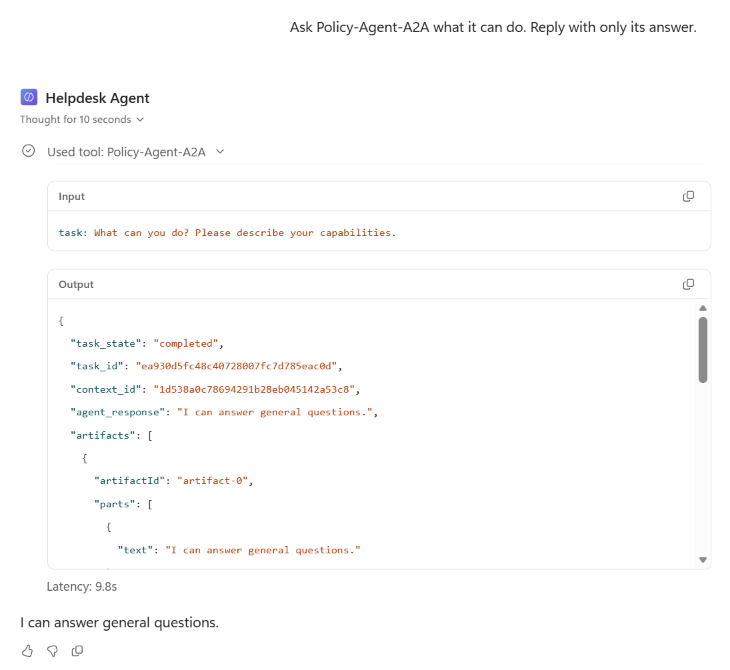
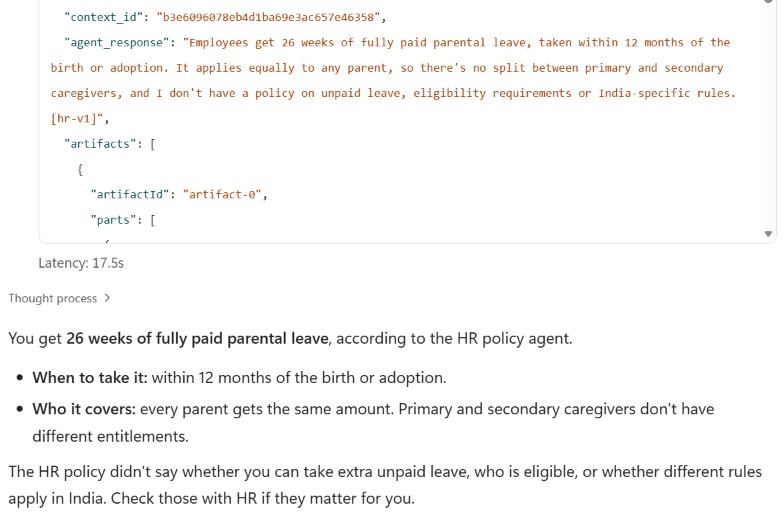
Test and document on-behalf-of sign-in for the MCP tool
- Steps 7 and 8: switch the connector to on-behalf-of (OBO) sign-in, then
  share and test with another user, with a token-flow diagram and masked
  screenshots of the app registration, connector and end-user flow
- Resource URL must be https://api.powerplatform.com/copilotstudio-mcp
- Users need a security role when the calling agent isn't in the default
  environment
- Rename to Microsoft Copilot harness (formerly GitHub Copilot harness)
- Remove "Things that tripped me up"; replace outdated A2A trace and MCP
  tool screenshots; tighten headings and description; date 11 Nov

diff --git a/_posts/2026-11-11-call-ghcp-harness-agents-mcp-a2a.md b/_posts/2026-11-11-call-ghcp-harness-agents-mcp-a2a.md
@@ -1,35 +1,35 @@
 ---
 layout: post
 agent_edition: both
-title: "Call GitHub Copilot Harness Agents from Other Copilot Studio Agents with MCP and A2A"
-date: 2026-11-02
+title: "Call Microsoft Copilot Harness Agents from Other Copilot Studio Agents with MCP and A2A"
+date: 2026-11-11
 categories: [copilot-studio, orchestration]
-tags: [mcp, a2a, a2a-protocol, multi-agent, connected-agents, orchestration, github-copilot]
-description: "Step-by-step configuration for two Copilot Studio-to-Copilot Studio integrations: a standard agent calling a GitHub Copilot harness agent over MCP, and GitHub Copilot harness agents calling each other across environments over A2A."
+tags: [mcp, a2a, a2a-protocol, multi-agent, connected-agents, orchestration, github-copilot, authentication]
+description: "Configure a standard agent to call a Microsoft Copilot harness agent (formerly GitHub Copilot harness) over MCP, and harness agents to call each other across environments over A2A, with OBO sign-in for other users."
 author: ssivaraman
 image:
   path: /assets/posts/call-ghcp-harness-agents-mcp-a2a/header.png
-  alt: "A GitHub Copilot harness agent in the center exposes two endpoints. A standard agent calls it through MCP, and a GitHub Copilot harness agent in another environment calls it through A2A. Both calls pass through Microsoft Entra ID as the signed-in user."
+  alt: "A Microsoft Copilot harness agent in the center exposes two endpoints. A standard agent calls it through MCP, and a Microsoft Copilot harness agent in another environment calls it through A2A. Both calls pass through Microsoft Entra ID as the signed-in user."
   no_bg: true
 ---
 
-You've got standard Copilot Studio agents in production. They work, people use them, and nobody wants to rebuild them. Meanwhile, your new agents are being built on the [GitHub Copilot harness](https://learn.microsoft.com/en-us/microsoft-copilot-studio/harnesses-overview), often by other teams, in other environments.
+You've got standard Copilot Studio agents in production. They work, people use them, and nobody wants to rebuild them. Meanwhile, your new agents are being built on the [Microsoft Copilot harness](https://learn.microsoft.com/en-us/microsoft-copilot-studio/harnesses-overview) (formerly the GitHub Copilot harness), often by other teams, in other environments.
 
 Two questions follow quickly:
 
-1. **Can my existing standard agent use a new GitHub Copilot harness agent** without being rebuilt?
-2. **Can my GitHub Copilot harness agent call another team's agent** in a different environment, without copying it into mine?
+1. **Can my existing standard agent use a new Microsoft Copilot harness agent** without being rebuilt?
+2. **Can my Microsoft Copilot harness agent call another team's agent** in a different environment, without copying it into mine?
 
-Both work today, through the [MCP and A2A channels](https://learn.microsoft.com/en-us/microsoft-copilot-studio/agents-experience/publication-channels-mcp-agent-to-agent) that every GitHub Copilot harness agent exposes. This post is the configuration I used to get each one working **when both the caller and the target are Copilot Studio agents**: the OAuth values, the redirect URI, the connection, routing, and what other users need before they can use it.
+Both work today, through the [MCP and A2A channels](https://learn.microsoft.com/en-us/microsoft-copilot-studio/agents-experience/publication-channels-mcp-agent-to-agent) that every Microsoft Copilot harness agent exposes. This post is the configuration I used to get each one working **when both the caller and the target are Copilot Studio agents**: the OAuth values, the redirect URI, the connection, routing, and what other users need before they can use it.
 
 If you're calling an agent from your own app or script instead, CATBOT's [I Read the MCP and A2A Docs So Adi Didn't Have To]({% post_url 2026-10-29-grumpy-protocol-clients %}) covers the Python clients and Entra sign-in.
 
-> The MCP and A2A channels are in preview. I tested these walkthroughs in two tenants, and I call out anything I didn't test. Details may change before general availability.
+> The MCP and A2A channels are in preview. I tested these walkthroughs in three tenants. Details may change before general availability.
 {: .prompt-warning }
 
 ## How the pieces fit
 
-There are three parts, and it helps to know who owns each one. The called agent is always a GitHub Copilot harness agent:
+There are three parts, and it helps to know who owns each one. The called agent is always a Microsoft Copilot harness agent:
 
 | Part | What it is | Who sets it up |
 |---|---|---|
@@ -39,10 +39,10 @@ There are three parts, and it helps to know who owns each one. The called agent 
 
 Follow [Prerequisite: Create an app registration](https://learn.microsoft.com/en-us/microsoft-copilot-studio/agents-experience/publication-channels-mcp-agent-to-agent#prerequisite-create-an-app-registration) in the Learn article to create the app registration. These details from my tests are worth knowing before you start:
 
-- **Only the called agent needs an Early environment.** The caller can sit in a Standard release environment. My callers were in the default environment.
-- **Only the caller registers.** The called agent's endpoint is protected by the Copilot Studio channel API, which already exists in your tenant.
+- **Only the called agent needs an Early environment.** The caller can sit in a Standard release environment, such as the default environment.
+- **Only the caller registers.** The called agent's endpoint is protected by the Copilot Studio channel API, which usually already exists in your tenant. If searching by its application ID finds nothing, open the called agent's MCP or A2A dialog once, which adds it to your tenant.
 - **The API name varies.** The channel API may appear as *Microsoft Copilot Studio Agent as MCP channel* or *Microsoft Copilot Studio Agent MCP and A2A channels*. Searching by its application ID, `6f46e6ed-07bf-4616-80f0-47546850f654`, finds it either way.
-- **Consent is per protocol.** User consent worked in my test tenants, but your tenant's consent policy may require admin approval. Consenting to the MCP permission doesn't cover A2A; each needs its own.
+- **Consent is per protocol.** User consent is enough when someone creates a connection and signs in; the on-behalf-of setup in Scenario 1, step 7 needs admin consent. Consenting to the MCP permission doesn't cover A2A; each needs its own.
 - **Callers get the published version.** A saved but unpublished change in the called agent isn't served.
 
 And here's why the setup looks the way it does:
@@ -53,7 +53,7 @@ And here's why the setup looks the way it does:
 
 ## Find the called agent's URLs
 
-Open the published GitHub Copilot harness agent in its Early environment, select **+** next to **Triggers**, then pick **MCP protocol** or **A2A protocol**.
+Open the published Microsoft Copilot harness agent in its Early environment, select **+** next to **Triggers**, then pick **MCP protocol** or **A2A protocol**.
 
 ![The Add a trigger dialog listing Recurrence, Copilot, Microsoft Teams, Office 365 Outlook and other triggers, with MCP protocol and A2A protocol marked Preview](/assets/posts/call-ghcp-harness-agents-mcp-a2a/add-trigger.png){: .shadow w="650" }
 _**MCP protocol** and **A2A protocol** in the Add a trigger dialog. They only appear in an Early release environment._
@@ -66,7 +66,7 @@ A2A:  https://api.powerplatform.com/copilotstudio-a2a/tenants/{tenantId}/environ
 Card: {A2A URL}/.well-known/agent-card.json
 ```
 
-Opening a dialog doesn't switch anything on: it only shows the URL. The A2A dialog also takes **skills**, a name and description for each thing the agent does, and those are saved with the agent. In my tests they appeared in the full agent details that signed-in clients read, not on the public agent card.
+Opening a dialog doesn't change the agent: it shows the URL. The A2A dialog also takes **skills**, a name and description for each thing the agent does, and those are saved with the agent. In my tests they appeared in the full agent details that signed-in clients read, not on the public agent card.
 
 ![The A2A client dialog showing the agent's A2A URL, agent card URL, and one skill named hr-policy-questions](/assets/posts/call-ghcp-harness-agents-mcp-a2a/a2a-endpoint-dialog.png){: .shadow w="700" }
 _The A2A dialog: the endpoint, the agent card URL, and the agent's skills._
@@ -74,9 +74,9 @@ _The A2A dialog: the endpoint, the agent card URL, and the agent's skills._
 > The [official docs](https://learn.microsoft.com/en-us/microsoft-copilot-studio/agents-experience/publication-channels-mcp-agent-to-agent) describe the same entries under **Channels → Add a channel → MCP client / A2A client**, and you may see them there instead. Either way, the called agent must be in an Early release environment. Also, the Publish dialog may warn that the agent "won't run until you add a trigger". MCP and A2A calls worked anyway.
 {: .prompt-info }
 
-## Scenario 1: Standard agent → GitHub Copilot harness agent (MCP)
+## Scenario 1: Standard agent → Microsoft Copilot harness agent (MCP)
 
-Your production standard agent gets the new agent as one more tool. Nothing about the standard agent is rebuilt. In my test, the standard agent was in the default environment and the called agent was in an Early environment.
+Your production standard agent gets the new agent as one more tool. Nothing about the standard agent is rebuilt.
 
 ### 1. Prepare the app registration
 
@@ -119,10 +119,10 @@ _The MCP wizard with **Manual** OAuth. The tenant ID is replaced with `{tenantId
 ![The app registration's Authentication page with a Web redirect URI that starts with https://global.consent.azure-apim.net/redirect/](/assets/posts/call-ghcp-harness-agents-mcp-a2a/entra-web-redirect.png){: .shadow w="700" }
 _The connector's redirect URL added to the app registration as a **Web** redirect URI._
 
-The tool panel then shows a single tool, **Send message**. One connector and connection can serve several agents in the same environment: my standard agent reused the connection I'd already created for another agent.
+The tool panel then shows a single tool, `send-message`. One connector and connection can serve several agents in the same environment: my standard agent reused the connection I'd already created for another agent.
 
 ![A standard agent's MCP tool details page, showing the connection and a single send-message tool](/assets/posts/call-ghcp-harness-agents-mcp-a2a/standard-agent-mcp-tool.png){: .shadow w="700" }
-_The standard agent with the GitHub Copilot harness agent added as an MCP tool. The server exposes one tool: `send-message`._
+_The standard agent with the Microsoft Copilot harness agent added as an MCP tool. The server exposes one tool: `send-message`. The connection's account is replaced with a placeholder here._
 
 ### 5. Tell the calling agent when to use it
 
@@ -131,7 +131,7 @@ The `send-message` tool's own description is generated from the called agent's n
 - **Specific description** ("Answers questions about leave, travel, expenses and other HR policies…"), server name *HR Policy*.
 - **Generic description** ("Model Context Protocol server endpoint."), server name *HR Policy MCP*, because the old name was still reserved after I deleted the first tool.
 
-Everything else was the same: same standard agent with no instructions, same called agent, same `send-message` tool, and a new test session for each question in the generic run. With either description, "How many weeks of parental leave do I get?" and "How many days of annual leave can I carry over?" invoked the tool. The activity trace showed whichever description was configured, but these tests don't tell you how much it contributed to routing. They do show that a detailed description wasn't required for these two questions.
+Everything else was the same: same standard agent with no instructions, same called agent, same `send-message` tool, and a new test session for each question in the generic run. With either description, "How many weeks of parental leave do I get?" and "How many days of annual leave can I carry over?" invoked the tool. The activity trace showed whichever description was configured, and a detailed description wasn't required for either question.
 
 Routing isn't guaranteed, though. In one run, "Can I book premium economy for a 7-hour flight?" went to the agent's default web search instead of the tool. If your agent has web search, knowledge or other tools that overlap, say when to use the called agent in the standard agent's instructions:
 
@@ -141,27 +141,93 @@ HR Policy tool. Don't answer HR policy questions from general knowledge
 or web search.
 ```
 
-Still write a **Server description** that says what the agent covers. It costs nothing, and it may matter more when several tools compete. Get it right the first time: it's copied into the agent when you add the tool, and editing the connector afterwards doesn't change it. To change it, you remove the tool and add it again.
+Still write a **Server description** that says what the agent covers. Get it right the first time: it's copied into the agent when you add the tool, and editing the connector afterwards doesn't change it. To change it, you remove the tool and add it again.
 
-### 6. Test it
+### 6. Test it as the maker
 
 Ask the standard agent something only the called agent knows. The activity trace shows **Used tool: send-message**, and the reply came back in about 9 to 17 seconds in my tests. Follow-up questions keep their context, because Copilot Studio passes the returned `conversationId` back for you. If MCP connectors are new to you, [Five Minutes to Your First MCP Connector]({% post_url 2026-04-10-hello-world-mcp-copilot-studio %}) walks through the basics.
 
-### 7. Let other people use it
+### 7. Switch the connector to on-behalf-of (OBO) sign-in
 
-The tool uses **End user credentials** by default, so each person who chats with the standard agent calls the GitHub Copilot harness agent as themselves. I published the standard agent to Microsoft 365 Copilot and tested it with a second user who wasn't the maker and had no connection to the connector. Three things had to be shared with that user:
+The tool uses **End user credentials** by default, so each person who chats with the standard agent calls the Microsoft Copilot harness agent as themselves. With **Manual** OAuth, the MCP wizard creates the connector with a generic OAuth 2 identity provider, and with that, every user has to sign in a second time on a separate connection manager page. Switching the connector to on-behalf-of (OBO) sign-in reuses the sign-in they already have, so they only select **Allow** once in the conversation. [Seamless SSO with Custom Connectors]({% post_url 2025-12-05-obo-for-custom-connectors %}) covers OBO for connectors in general. The steps here are the standard OBO setup for a custom connector; what's specific to the MCP channel is the **Resource URL** and the `MCS.InvokeAsMCP` permission.
 
-- **The standard agent**, as for any published agent.
-- **The custom connector** the MCP wizard created (Power Apps or Power Automate → **Custom connectors** → **Invite another user**, with permission to use it). Without it, the user's connection attempt failed with *"does not have ReadAccess … connector"*.
-- **The called GitHub Copilot harness agent.** Until it was shared, the user's questions got a generic answer instead of the HR Policy reply.
+![Diagram of the on-behalf-of flow: Mario asks the IT Helpdesk standard agent in Microsoft 365 Copilot and selects Allow on a Connect to continue card. The HR Policy connector sends Mario's token for the connector app, plus its client ID and secret, to Microsoft Entra ID and gets back a token for Mario that's valid for the Copilot Studio MCP endpoint. The HR Policy agent receives the call as Mario.](/assets/posts/call-ghcp-harness-agents-mcp-a2a/obo-flow.png){: .shadow w="900" }
+_Every hop runs as the signed-in user. The connector's secret only proves it's allowed to swap the user's token._
 
-The first time the user asks something that needs the tool, they don't get a sign-in prompt in the conversation. They get a message saying *"Let's get you connected first… Open connection manager to verify your credentials"*, with **Retry** and **Cancel**. The link opens a **Manage your connections** page where they select **Connect** and **Submit**, then go back and select **Retry**. The page has to be opened by that user: when I opened it signed in as the maker, it said *"User did not have access to the conversation."* Once the second user had connected under their own account and selected **Retry**, the standard agent answered with the called agent's reply ("26 weeks of fully paid parental leave… [hr-v1]"). If the app registration doesn't have admin consent, Entra asks each person to consent to `MCS.InvokeAsMCP` when they first connect (I saw that prompt as the maker); granting admin consent removes it.
+First, add OBO to the app registration from step 1, as described in [Configure OBO authentication for custom connectors](https://learn.microsoft.com/en-us/microsoft-copilot-studio/advanced-custom-connector-on-behalf-of):
 
-That connection-manager flow is the tested baseline. The alternative I didn't test is on-behalf-of (OBO) sign-in for the connector, described in [Configure OBO authentication for custom connectors](https://learn.microsoft.com/en-us/microsoft-copilot-studio/advanced-custom-connector-on-behalf-of). It's more setup than this walkthrough uses: the connector's app registration exposes its own scope (for example `access_as_user`) and lists the Azure API Connections client (`fe053c5f-3692-4f14-aef2-ee34fc081cae`) as an authorized client application, the connector's **Security** tab has **Enable on-behalf-of login** turned on, and the connector is shared with end users. Learn describes the result as an in-conversation consent prompt instead of a separate sign-in. I haven't verified that it works with the connector the MCP wizard creates, so treat it as something to test rather than a fix.
+1. **Expose an API → Add a scope.** Accept the default Application ID URI (`api://{client-id}`), name the scope `access_as_user`, set **Who can consent** to **Admins and users**, and keep it **Enabled**.
+2. **Authorized client applications → Add a client application.** Enter `fe053c5f-3692-4f14-aef2-ee34fc081cae` (Azure API Connections) and tick `access_as_user`. This lets Power Platform get a token for the connector on the user's behalf without a sign-in page.
+3. **API permissions → Grant admin consent** for `MCS.InvokeAsMCP`. The token swap happens in the background, so there's no moment to ask the user for that permission.
 
-## Scenario 2: GitHub Copilot harness agent → GitHub Copilot harness agent across environments (A2A)
+<details markdown="1">
+<summary>Screenshot: the app registration's Expose an API page</summary>
 
-Another team owns the agent you need, in their own environment. Instead of copying it, you call their published agent. MCP would reach it across environments too, as Scenario 1 shows. This scenario uses A2A because the calling agent is a GitHub Copilot harness agent, which can add it as a connected agent from its agent card. In my test, the caller was in the default environment and the called agent was in an Early environment.
+![The app registration's Expose an API page showing the access_as_user scope, consentable by admins and users, and fe053c5f-3692-4f14-aef2-ee34fc081cae listed as an authorized client application](/assets/posts/call-ghcp-harness-agents-mcp-a2a/obo-expose-api.png){: .shadow w="700" }
+_The client ID is replaced with `{client-id}` here._
+
+</details>
+
+Then, in Power Apps, go to **Custom connectors**, select the pencil icon on the connector the MCP wizard created, open **2. Security**, select **Edit** under **OAuth 2.0**, and set:
+
+| Field | Value |
+|---|---|
+| Identity Provider | **Azure Active Directory** (Microsoft Entra ID) |
+| Enable Service Principal support | Off |
+| Client ID | The app registration's Application (client) ID |
+| Client secret | The secret value. Changing the identity provider clears it, so enter it again. |
+| Authorization URL | `https://login.microsoftonline.com` (the default) |
+| Tenant ID | Your Directory (tenant) ID |
+| Resource URL | `https://api.powerplatform.com/copilotstudio-mcp` |
+| Enable on-behalf-of login | `true` |
+| Scope | Keep the value from step 3 (`…/MCS.InvokeAsMCP offline_access`) |
+
+> The **Resource URL** is the channel API's identifier, `https://api.powerplatform.com/copilotstudio-mcp`. Plain `https://api.powerplatform.com` is a different API, the Power Platform API, and tokens issued for it aren't valid for the MCP endpoint.
+{: .prompt-warning }
+
+<details markdown="1">
+<summary>Screenshot: the connector's Security tab after the switch</summary>
+
+![The connector's Security tab with Azure Active Directory as the identity provider, Service Principal support off, the client ID and tenant ID as placeholders, the default authorization URL, Resource URL https://api.powerplatform.com/copilotstudio-mcp and Enable on-behalf-of login set to true](/assets/posts/call-ghcp-harness-agents-mcp-a2a/obo-connector-security.png){: .shadow w="600" }
+_IDs are replaced with placeholders here._
+
+</details>
+
+Select **Update connector**. The redirect URL stayed the same in my test, so the app registration needed no new redirect URI. After the switch, create a new connection for the tool in the standard agent (**Tools** → the MCP tool → **Create new connection**) and select it. The switch applies to every agent that uses this connector, so do the same in each of them.
+
+### 8. Share it and test with another user
+
+Each user needs the following. Share the first three with a security group rather than one person at a time:
+
+- **The standard agent**, shared as for any published agent, as described in [Share agents with other users](https://learn.microsoft.com/en-us/microsoft-copilot-studio/admin-share-bots).
+- **The custom connector** the MCP wizard created, shared with **Can view** (Power Apps → **Custom connectors** → **⋯** → **Invite another user**), as described in [Share a custom connector in your organization](https://learn.microsoft.com/en-us/connectors/custom-connectors/share). Without it, the connection attempt failed with *"does not have ReadAccess … connector"*.
+- **The called Microsoft Copilot harness agent**, shared with them. Until it was shared, my test user got a generic answer instead of the HR Policy reply.
+- **A security role in the calling agent's environment**, if that isn't the default environment. **Basic User** was enough. Without a role, the consent card still appeared, but **Allow** ended with *"I couldn't connect. Open connection manager…"* and no connection was created.
+
+I published the standard agent to Microsoft 365 Copilot and tested it with a second user who wasn't the maker and had no connection to the connector. Both agents were in the same Early environment rather than the default one, which is how the security-role requirement showed up. In the cross-environment setup, with the calling agent in the default environment, sharing the called agent was all its Early environment needed. The first time the user asked something that needed the tool, Microsoft 365 Copilot showed a **Connect to continue** card:
+
+![The IT Helpdesk agent in Microsoft 365 Copilot showing a Connect to continue card for HR Policy with Allow and Cancel buttons](/assets/posts/call-ghcp-harness-agents-mcp-a2a/obo-consent-card.png){: .shadow w="560" }
+_The in-conversation consent card. There's no connection manager page._
+
+Selecting **Allow** created the user's connection, and the agent answered with the called agent's reply. Later questions used the same connection without another card.
+
+<details markdown="1">
+<summary>Screenshots: the answer after Allow, and a follow-up with no second card</summary>
+
+![The IT Helpdesk agent answering "Mario, you're entitled to 26 weeks (6 months) of fully paid parental leave" with details from the HR policy](/assets/posts/call-ghcp-harness-agents-mcp-a2a/obo-answer-after-allow.png){: .shadow w="560" }
+_The answer after **Allow**. The details come from the called agent's HR handbook._
+
+![A follow-up question about carrying over annual leave answered directly: up to 5 unused days, expiring March 31](/assets/posts/call-ghcp-harness-agents-mcp-a2a/obo-followup-no-prompt.png){: .shadow w="560" }
+_A follow-up question. No consent card this time._
+
+</details>
+
+> If you leave the connector on the generic OAuth settings, the tool still works, but each user gets *"Let's get you connected first… Open connection manager"*. They connect on the **Manage your connections** page, which they have to open themselves, then go back and select **Retry**.
+{: .prompt-info }
+
+## Scenario 2: Microsoft Copilot harness agents across environments (A2A)
+
+Another team owns the agent you need, in their own environment. Instead of copying it, you call their published agent. MCP would reach it across environments too, as Scenario 1 shows. This scenario uses A2A because the calling agent is a Microsoft Copilot harness agent, which can add it as a connected agent from its agent card. In my test, the caller was in the default environment and the called agent was in an Early environment.
 
 ### 1. Prepare the app registration
 
@@ -203,19 +269,19 @@ HR policy agent owned by the People team. Answers questions about leave,
 travel, expenses and other HR policies. Use it for any HR policy question.
 ```
 
-With that description and no instructions in the calling agent, "How many weeks of parental leave do I get?" went to HR Policy. That confirmed delegation worked with this configuration; I didn't isolate the description's contribution. If the calling agent has its own instructions or overlapping tools, add a line that points HR policy questions to the connected agent, in the same way as the MCP example above.
+With that description and no instructions in the calling agent, "How many weeks of parental leave do I get?" went to HR Policy. If the calling agent has its own instructions or overlapping tools, add a line that points HR policy questions to the connected agent, in the same way as the MCP example above.
 
 ### 5. Test it
 
 Select **Add to agent**, save, and ask the calling agent something only the called agent knows. You can test in **Preview** before you publish the calling agent; the called agent must already be published. The trace shows **Used tool: {your A2A agent}** with the input and output, and my first answer came back in about 17 seconds.
 
-![Activity trace in the calling agent showing the A2A tool call, its task input, and an output with task_state completed, task_id, context_id and the agent's reply](/assets/posts/call-ghcp-harness-agents-mcp-a2a/a2a-call-trace.png){: .shadow w="650" }
-_The calling agent's trace. The output shows the A2A task: its state, task and context IDs, and the reply as an artifact._
+![The A2A tool output in the calling agent's trace, with the context ID and the HR Policy agent's reply about 26 weeks of fully paid parental leave, a latency of 17.5 seconds, and the calling agent's answer](/assets/posts/call-ghcp-harness-agents-mcp-a2a/a2a-call-trace.png){: .shadow w="650" }
+_The output part of the calling agent's trace: the context ID and the called agent's reply, followed by the calling agent's answer._
 
 > The A2A tool's built-in guidance tells the model to pass both `context_id` and `task_id` back on follow-ups. Passing `task_id` fails with error `-32004` ("Task is in a terminal state"), because every reply is a completed task. Follow-ups work with `context_id` alone. In both of my tests, the calling agent's model retried without `task_id` by itself and the follow-up kept its context, so if you see that error in the trace, that's what happened.
 {: .prompt-warning }
 
-If the two agents are both GitHub Copilot harness agents in the **same environment**, you don't need either channel: [connected agents](https://learn.microsoft.com/en-us/microsoft-copilot-studio/agents-experience/authoring-add-other-agents) lists them directly, with no URL, app registration or OAuth.
+If the two agents are both Microsoft Copilot harness agents in the **same environment**, you don't need either channel: [connected agents](https://learn.microsoft.com/en-us/microsoft-copilot-studio/agents-experience/authoring-add-other-agents) lists them directly, with no URL, app registration or OAuth.
 
 ## How the two channels differ
 
@@ -223,7 +289,7 @@ Both channels invoke the **same published agent**. Its capabilities and answers 
 
 | | MCP | A2A |
 |---|---|---|
-| Copilot Studio callers | Standard and GitHub Copilot harness agents | GitHub Copilot harness agents |
+| Copilot Studio callers | Standard and Microsoft Copilot harness agents | Microsoft Copilot harness agents |
 | Protocol version | MCP `2025-06-18` | A2A **1.0** only |
 | Reply | Completed reply from `send-message` | Streaming supported |
 | Discovery metadata | One tool, described by agent name | Agent card with skills |
@@ -232,28 +298,20 @@ Both channels invoke the **same published agent**. Its capabilities and answers 
 A few of these deserve a sentence each:
 
 - **Standard agents can't use A2A here.** The standard harness's Agent2Agent form expects the A2A 0.x card format, and Copilot Studio serves 1.0 cards. In my test, the form loaded the card but never created the connector. MCP is the only route from a standard agent today.
-- **Client compatibility matters more than features.** The A2A channel accepts A2A 1.0 clients only. Copilot Studio's GitHub Copilot harness speaks 1.0, but check any other A2A client before you count on it.
+- **Client compatibility matters more than features.** The A2A channel accepts A2A 1.0 clients only. Copilot Studio's Microsoft Copilot harness speaks 1.0, but check any other A2A client before you count on it.
 - **Streaming is a channel capability.** The A2A channel streams replies through `SendStreamingMessage`, while MCP's `send-message` returns the completed reply. That matters most to custom clients; the [CATBOT post]({% post_url 2026-10-29-grumpy-protocol-clients %}) shows both.
 - **Discovery isn't routing.** The agent card and its skills are metadata that A2A clients use to discover the agent. Copilot Studio's routing uses the connected agent's name and description, the conversation, and the calling agent's instructions. That's why step 4 of Scenario 2 matters even if you've written good skills.
 
 > [Agent hooks](https://learn.microsoft.com/en-us/microsoft-copilot-studio/agents-experience/hooks-overview) on the called agent fire for both channels. `metadata.channel` is `mcs-agent-as-mcp` or `mcs-agent-as-a2a`, and `userAadObjectId` is the signed-in caller, so a hook can treat agent callers differently from people chatting directly. If you haven't used hooks yet, start with [Hooks in Copilot Studio]({% post_url 2026-10-12-hooks-in-copilot-studio %}).
 {: .prompt-tip }
 
-## Things that tripped me up
-
-- **No triggers? Check the release cycle.** Outside an Early release environment, the **MCP protocol** and **A2A protocol** triggers don't appear. If you build the URL yourself for an agent in a Standard release environment, every call returns HTTP 400, and Copilot Studio shows the caller only *"HTTP 400. Check the server's configuration"*, not the server's message, which says the endpoint isn't enabled for that environment.
-- **Environment group rules can block calls.** In one environment, the called agent answered correctly in its own test pane, but every channel call came back as a normal reply containing *"Error code: EnvironmentGroupPolicyViolation"*. If you see that, ask your Power Platform admin about the environment group's rules.
-- **A timeout can still create the connector.** Creating the MCP tool once failed with HTTP 504, but the connector had been created anyway, so the retry failed because the name already existed. Use a different name, or delete the leftover custom connector first.
-- **"Out of credits" looks like an answer.** When the called agent's environment had no credits, the reply was a normal message saying so, not an error. My calling agent noticed, but check your traces.
-- **End-user tools run as the caller.** In the called agent, a tool set to *End user account* ran with the caller's identity and no consent prompt, even when that user had no connection in the called agent's environment.
-
 ## Key takeaways
 
-- A **standard** agent can use a GitHub Copilot harness agent today as an **MCP tool**, without being rebuilt.
-- A **GitHub Copilot harness** agent can call another team's agent in a **different environment** as an **A2A connected agent**, without copying it.
-- Both need an Early environment for the called agent, an app registration with a client secret, a Web redirect URI per connector, and **Manual** OAuth.
+- A **standard** agent can use a Microsoft Copilot harness agent today as an **MCP tool**, without being rebuilt.
+- A **Microsoft Copilot harness** agent can call another team's agent in a **different environment** as an **A2A connected agent**, without copying it.
+- Both need an Early environment for the called agent, an app registration with a client secret, and a Web redirect URI per connector. MCP also needs **Manual** OAuth.
 - In my MCP tests, routing worked with a specific or a generic Server description. Use clear names and descriptions, and add a line to the calling agent's instructions when web search or other tools overlap.
-- In the published standard → GitHub Copilot harness (MCP) scenario, other users need access to both agents and the custom connector, then create their connection once through the connection manager.
+- Switch the MCP connector to **on-behalf-of** sign-in, so other users select **Allow** once in the conversation instead of using the connection manager.
 - The channels differ in who can call, protocol version, streaming and discovery metadata, not in what the called agent can do.
 
-Which of your production agents would you connect to a GitHub Copilot harness agent first? Let me know in the comments.
+Which of your production agents would you connect to a Microsoft Copilot harness agent first? Let me know in the comments.
